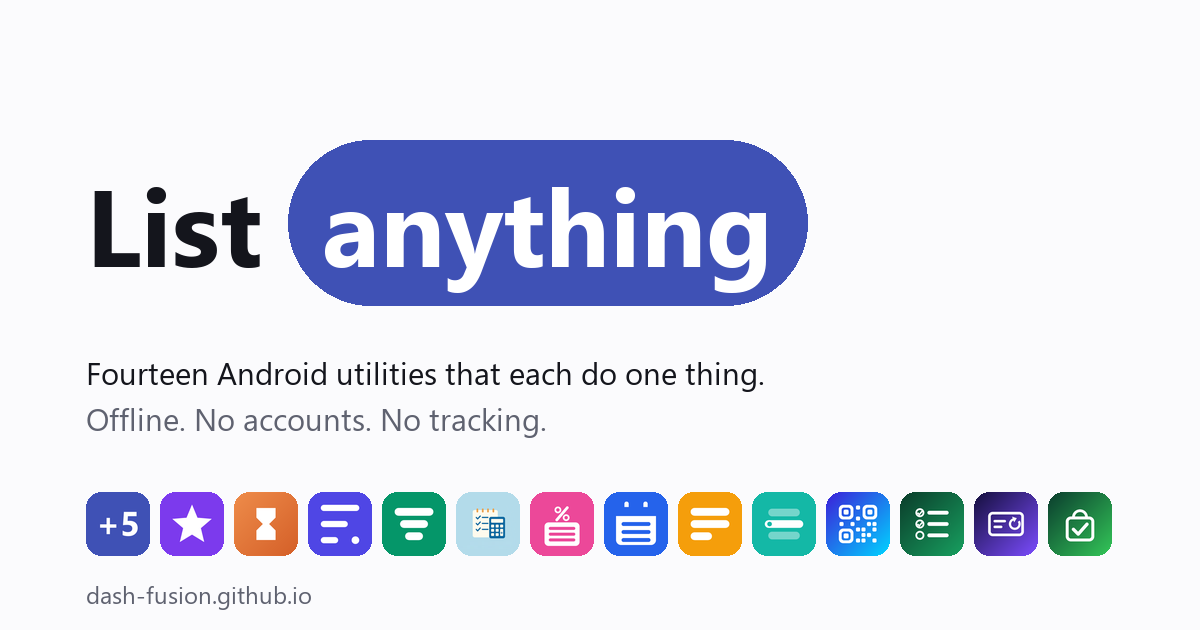
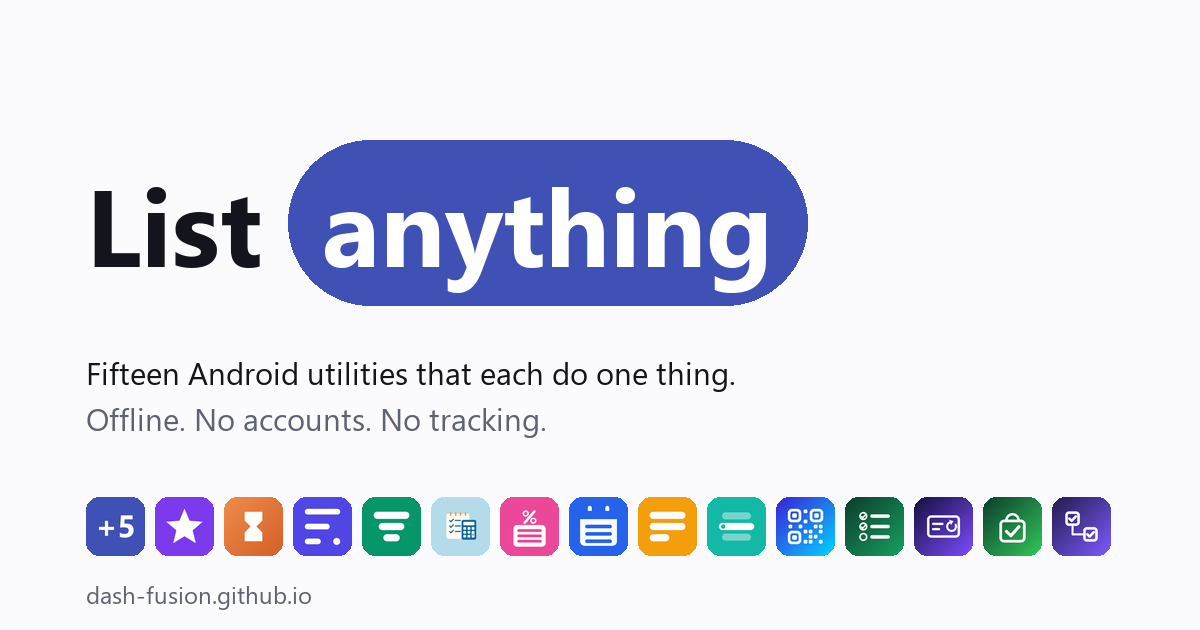
Add List Todo as the fifteenth app
All seven per-app edits: 192px icon, row in Shop and plan, the count word in
the four description places plus the og:image:alt, hero pill rotation,
JSON-LD (numberOfItems 17, inserted at position 14, later items renumbered),
gen_social.py slug + regenerated og.png, and the sitemap lastmod.

Row colour #4632B4 holds 8.84:1 behind white text, and reads apart from
List Subs and List QR in the same indigo family.

Changed region(s): [[0.0617, 0.7841, 0.925, 0.9048], [0.0925, 0.573, 0.6475, 0.6333]]

diff --git a/index.html b/index.html
@@ -5,7 +5,7 @@
 <meta name="viewport" content="width=device-width, initial-scale=1">
 
 <title>Dash Fusion — offline-first Android utility apps</title>
-<meta name="description" content="Fourteen small Android utilities that each do one thing well — counters, timers, budgets, subscriptions, shopping lists, notes, QR codes and more — plus two offline games: Potion Sort color-sort puzzles and Neon PingPong arcade duels. Everything works fully offline, with no account required.">
+<meta name="description" content="Fifteen small Android utilities that each do one thing well — counters, timers, budgets, subscriptions, shopping lists, notes, QR codes and more — plus two offline games: Potion Sort color-sort puzzles and Neon PingPong arcade duels. Everything works fully offline, with no account required.">
 <link rel="canonical" href="https://dash-fusion.github.io/">
 <meta name="author" content="Dash Fusion">
 <meta name="robots" content="index, follow, max-image-preview:large">
@@ -16,14 +16,14 @@
 <meta property="og:site_name" content="Dash Fusion">
 <meta property="og:url" content="https://dash-fusion.github.io/">
 <meta property="og:title" content="Dash Fusion — offline-first Android utility apps">
-<meta property="og:description" content="Fourteen small Android utilities that each do one thing well, plus two offline games — Potion Sort and Neon PingPong. No account required.">
+<meta property="og:description" content="Fifteen small Android utilities that each do one thing well, plus two offline games — Potion Sort and Neon PingPong. No account required.">
 <meta property="og:image" content="https://dash-fusion.github.io/og.png">
 <meta property="og:image:width" content="1200">
 <meta property="og:image:height" content="630">
-<meta property="og:image:alt" content="Dash Fusion — List anything. The fourteen app icons in a row.">
+<meta property="og:image:alt" content="Dash Fusion — List anything. The fifteen app icons in a row.">
 <meta name="twitter:card" content="summary_large_image">
 <meta name="twitter:title" content="Dash Fusion — offline-first Android utility apps">
-<meta name="twitter:description" content="Fourteen small Android utilities that each do one thing well, plus two offline games — Potion Sort and Neon PingPong. No account required.">
+<meta name="twitter:description" content="Fifteen small Android utilities that each do one thing well, plus two offline games — Potion Sort and Neon PingPong. No account required.">
 <meta name="twitter:image" content="https://dash-fusion.github.io/og.png">
 
 <link rel="icon" href="/favicon.svg" type="image/svg+xml">
@@ -320,7 +320,7 @@ a{color:inherit}
 <header class="masthead shell">
   <p class="eyebrow">Dash Fusion</p>
   <h1 class="wordmark">List <span class="slot" id="slot"><span class="slot-text" id="slotText">anything</span></span></h1>
-  <p class="lede">Fourteen Android utilities that each do <strong>one thing</strong> — and two offline games for your breaks. Everything works offline, keeps your data on your phone, and never asks who you are.</p>
+  <p class="lede">Fifteen Android utilities that each do <strong>one thing</strong> — and two offline games for your breaks. Everything works offline, keeps your data on your phone, and never asks who you are.</p>
   <span class="slot-measure" id="slotMeasure" aria-hidden="true"></span>
 </header>
 
@@ -522,6 +522,19 @@ a{color:inherit}
           </div>
         </div>
       </li>
+      <li class="row" style="--hue:#4632B4;--deep:#4632B4">
+        <div class="row-in">
+          <img class="row-icon" src="icons/list-todo.png" width="46" height="46" alt="" decoding="async">
+          <div>
+            <h3 class="row-name">List Todo</h3>
+            <p class="row-desc">To-do lists with unlimited nested sub-tasks: tick a parent to finish the branch, due dates, reminders and repeats at any depth.</p>
+          </div>
+          <div class="row-links">
+            <a class="play-link" href="https://play.google.com/store/apps/details?id=com.dashfusion.listtodo" aria-label="List Todo on Google Play" title="Get it on Google Play"><svg class="play-glyph" aria-hidden="true" focusable="false"><use href="#gplay"></use></svg></a>
+            <a href="https://dash-fusion.github.io/privacy/list-todo" aria-label="List Todo privacy policy">Privacy</a>
+          </div>
+        </div>
+      </li>
     </ul>
   </section>
 
@@ -627,7 +640,8 @@ a{color:inherit}
     {t:'QR',         c:'#3B1FD9'},
     {t:'Habit',      c:'#0E7A48'},
     {t:'Subs',       c:'#5B33D6'},
-    {t:'Grocery',    c:'#146B45'}
+    {t:'Grocery',    c:'#146B45'},
+    {t:'Todo',       c:'#4632B4'}
   ];
   var i = 0;
 
@@ -694,7 +708,7 @@ a{color:inherit}
     {
       "@type":"ItemList",
       "name":"Dash Fusion Android apps",
-      "numberOfItems":16,
+      "numberOfItems":17,
       "itemListElement":[
         {"@type":"ListItem","position":1,"item":{"@type":"MobileApplication","name":"List Counter","applicationCategory":"UtilitiesApplication","operatingSystem":"Android","url":"https://play.google.com/store/apps/details?id=com.dashfusion.listcounter","image":"https://dash-fusion.github.io/icons/list-counter.png","description":"Tally reps, stock, laps or attendees with as many counters as you need.","author":{"@id":"https://dash-fusion.github.io/#org"},"offers":{"@type":"Offer","price":"0","priceCurrency":"USD"}}},
         {"@type":"ListItem","position":2,"item":{"@type":"MobileApplication","name":"List Habit","applicationCategory":"UtilitiesApplication","operatingSystem":"Android","url":"https://play.google.com/store/apps/details?id=com.dashfusion.listhabit","image":"https://dash-fusion.github.io/icons/list-habit.png","description":"Offline habit tracker — daily, weekday or weekly-goal habits with streaks, a month calendar and gentle reminders.","author":{"@id":"https://dash-fusion.github.io/#org"},"offers":{"@type":"Offer","price":"0","priceCurrency":"USD"}}},
@@ -709,9 +723,10 @@ a{color:inherit}
         {"@type":"ListItem","position":11,"item":{"@type":"MobileApplication","name":"List Notes","applicationCategory":"ProductivityApplication","operatingSystem":"Android","url":"https://play.google.com/store/apps/details?id=com.dashfusion.listnotes","image":"https://dash-fusion.github.io/icons/list-notes.png","description":"Notes with checklists, real tables, attachments and one-tap PDF export.","author":{"@id":"https://dash-fusion.github.io/#org"},"offers":{"@type":"Offer","price":"0","priceCurrency":"USD"}}},
         {"@type":"ListItem","position":12,"item":{"@type":"MobileApplication","name":"List Picker","applicationCategory":"UtilitiesApplication","operatingSystem":"Android","url":"https://play.google.com/store/apps/details?id=com.dashfusion.listpicker","image":"https://dash-fusion.github.io/icons/list-picker.png","description":"Spin a wheel, draw a name, split teams or flip a coin.","author":{"@id":"https://dash-fusion.github.io/#org"},"offers":{"@type":"Offer","price":"0","priceCurrency":"USD"}}},
         {"@type":"ListItem","position":13,"item":{"@type":"MobileApplication","name":"List Grocery","applicationCategory":"ShoppingApplication","operatingSystem":"Android","url":"https://play.google.com/store/apps/details?id=com.dashfusion.listgrocery","image":"https://dash-fusion.github.io/icons/list-grocery.png","description":"Offline shopping list built for the aisle — quick add, aisle order per store, staples, templates and an estimated total. No account, no banner ads.","author":{"@id":"https://dash-fusion.github.io/#org"},"offers":{"@type":"Offer","price":"0","priceCurrency":"USD"}}},
-        {"@type":"ListItem","position":14,"item":{"@type":"MobileApplication","name":"List QR","applicationCategory":"UtilitiesApplication","operatingSystem":"Android","url":"https://play.google.com/store/apps/details?id=com.dashfusion.qrgenerator","image":"https://dash-fusion.github.io/icons/list-qr.png","description":"Offline QR code and barcode generator — styled codes that still scan, saved to a list on your device.","author":{"@id":"https://dash-fusion.github.io/#org"},"offers":{"@type":"Offer","price":"0","priceCurrency":"USD"}}},
-        {"@type":"ListItem","position":15,"item":{"@type":"MobileApplication","name":"Neon PingPong","applicationCategory":"GameApplication","operatingSystem":"Android","url":"https://play.google.com/store/apps/details?id=com.dashfusion.pingpong","image":"https://dash-fusion.github.io/icons/pingpong.png","description":"Neon arcade ping pong — solo vs AI, two players on one phone, or Wi-Fi multiplayer. Fully offline.","author":{"@id":"https://dash-fusion.github.io/#org"},"offers":{"@type":"Offer","price":"0","priceCurrency":"USD"}}},
-        {"@type":"ListItem","position":16,"item":{"@type":"MobileApplication","name":"Potion Sort","applicationCategory":"GameApplication","operatingSystem":"Android","url":"https://play.google.com/store/apps/details?id=com.dashfusion.potion_sort","image":"https://dash-fusion.github.io/icons/potion-sort.png","description":"Offline color-sort puzzle with 999 solver-verified levels and a daily challenge.","author":{"@id":"https://dash-fusion.github.io/#org"},"offers":{"@type":"Offer","price":"0","priceCurrency":"USD"}}}
+        {"@type":"ListItem","position":14,"item":{"@type":"MobileApplication","name":"List Todo","applicationCategory":"ProductivityApplication","operatingSystem":"Android","url":"https://play.google.com/store/apps/details?id=com.dashfusion.listtodo","image":"https://dash-fusion.github.io/icons/list-todo.png","description":"Offline to-do list with unlimited nested sub-tasks — tick a parent to finish the branch, plus due dates, reminders and repeating tasks at any depth. No account, no banner ads.","author":{"@id":"https://dash-fusion.github.io/#org"},"offers":{"@type":"Offer","price":"0","priceCurrency":"USD"}}},
+        {"@type":"ListItem","position":15,"item":{"@type":"MobileApplication","name":"List QR","applicationCategory":"UtilitiesApplication","operatingSystem":"Android","url":"https://play.google.com/store/apps/details?id=com.dashfusion.qrgenerator","image":"https://dash-fusion.github.io/icons/list-qr.png","description":"Offline QR code and barcode generator — styled codes that still scan, saved to a list on your device.","author":{"@id":"https://dash-fusion.github.io/#org"},"offers":{"@type":"Offer","price":"0","priceCurrency":"USD"}}},
+        {"@type":"ListItem","position":16,"item":{"@type":"MobileApplication","name":"Neon PingPong","applicationCategory":"GameApplication","operatingSystem":"Android","url":"https://play.google.com/store/apps/details?id=com.dashfusion.pingpong","image":"https://dash-fusion.github.io/icons/pingpong.png","description":"Neon arcade ping pong — solo vs AI, two players on one phone, or Wi-Fi multiplayer. Fully offline.","author":{"@id":"https://dash-fusion.github.io/#org"},"offers":{"@type":"Offer","price":"0","priceCurrency":"USD"}}},
+        {"@type":"ListItem","position":17,"item":{"@type":"MobileApplication","name":"Potion Sort","applicationCategory":"GameApplication","operatingSystem":"Android","url":"https://play.google.com/store/apps/details?id=com.dashfusion.potion_sort","image":"https://dash-fusion.github.io/icons/potion-sort.png","description":"Offline color-sort puzzle with 999 solver-verified levels and a daily challenge.","author":{"@id":"https://dash-fusion.github.io/#org"},"offers":{"@type":"Offer","price":"0","priceCurrency":"USD"}}}
       ]
     }
   ]

diff --git a/scripts/gen_social.py b/scripts/gen_social.py
@@ -25,6 +25,7 @@ REGULAR = "C:/Windows/Fonts/segoeui.ttf"
 APPS = [
     "counter", "score", "timer", "budget", "debt",
     "calculator", "percent", "date", "notes", "picker", "qr", "habit", "subs", "grocery",
+    "todo",
 ]
 
 
@@ -62,7 +63,7 @@ def build_og(path):
 
     d.text(
         (left, py1 + 46),
-        "Fourteen Android utilities that each do one thing.",
+        "Fifteen Android utilities that each do one thing.",
         font=sub,
         fill=INK,
     )
